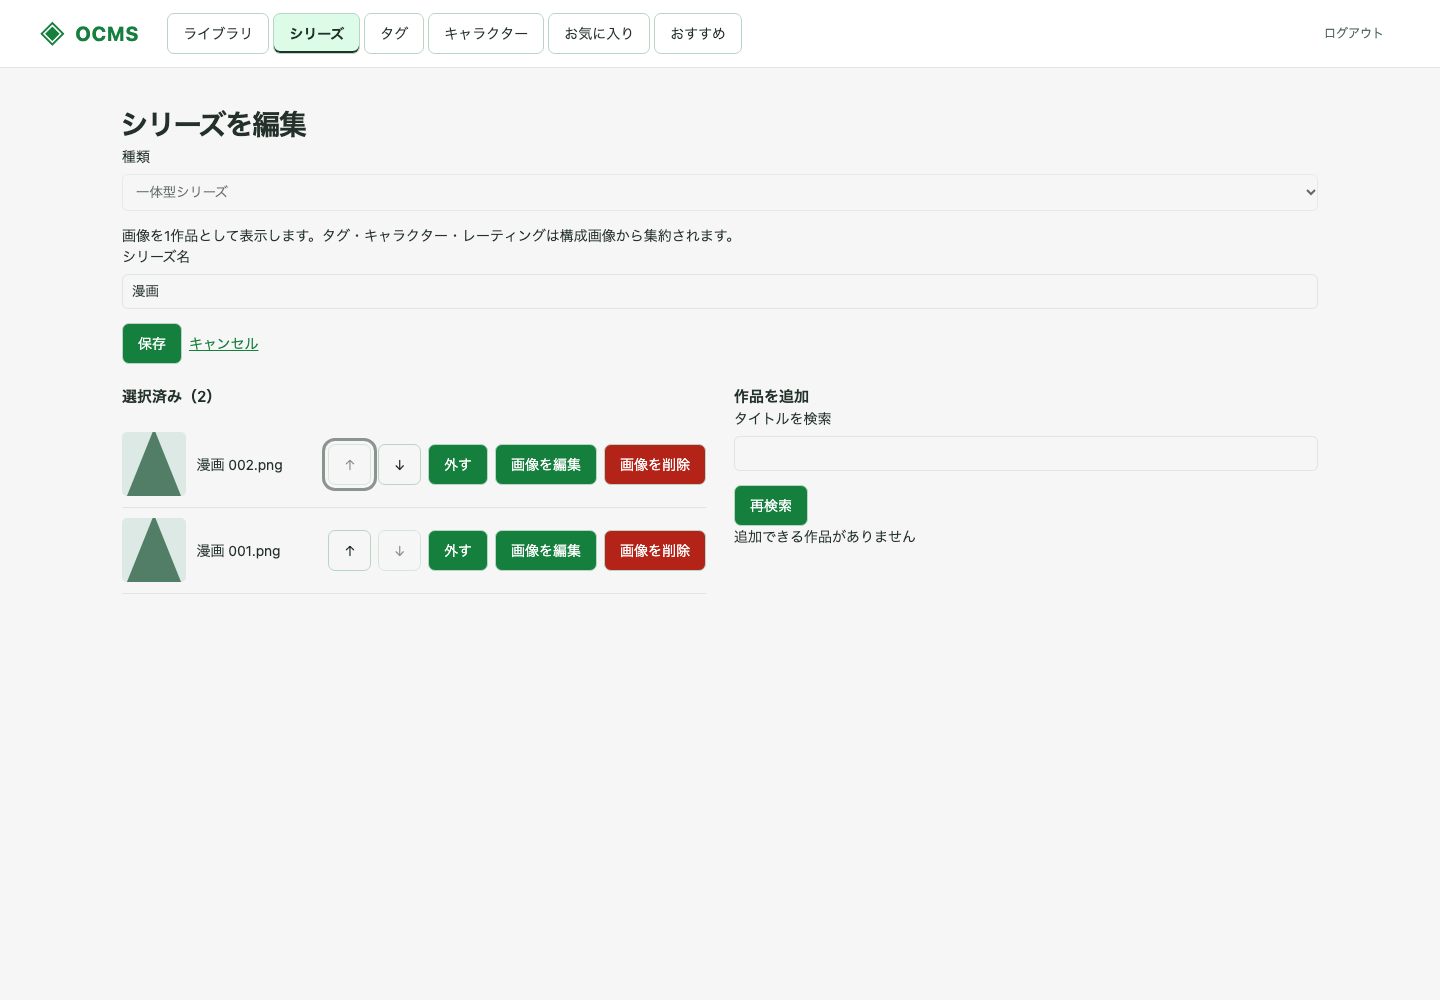
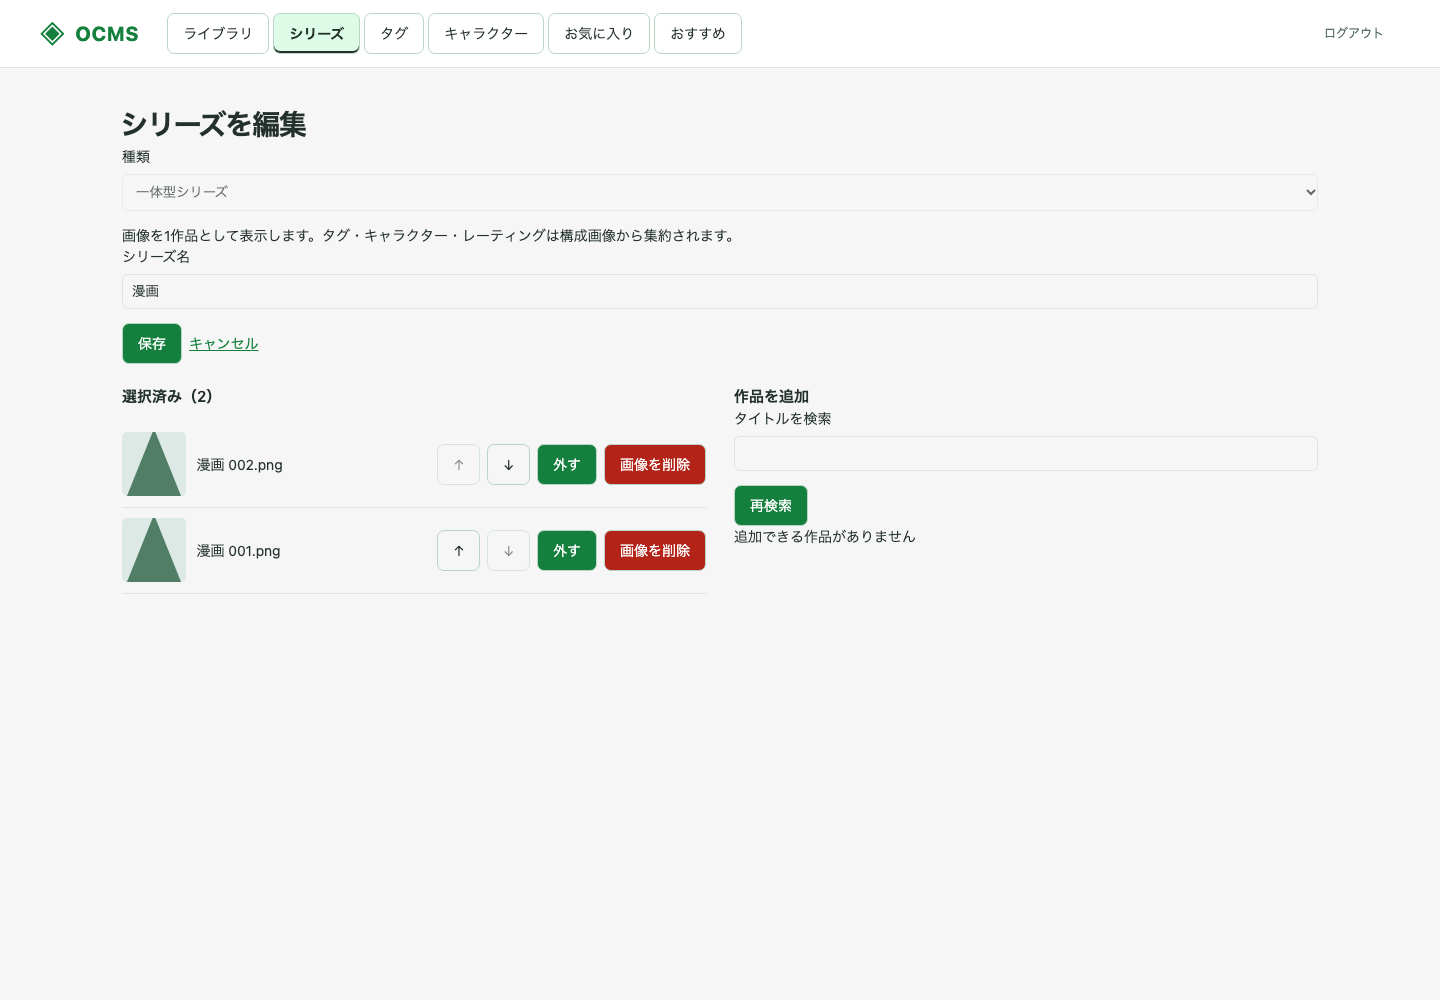
fix: remove image editing from series editor

Changed region(s): [[0.2188, 0.434, 0.4062, 0.496], [0.2812, 0.527, 0.4062, 0.589]]

diff --git a/web/src/components/series/SeriesPage.tsx b/web/src/components/series/SeriesPage.tsx
@@ -1,7 +1,6 @@
 import { useEffect, useState } from 'react';
 import { Link, useLocation, useNavigate } from 'react-router';
-import type { Asset, AssetChanges } from '../../lib/assets';
-import { AssetMetadataEditor } from '../library/AssetMetadataEditor';
+import type { Asset } from '../../lib/assets';
 import { AssetViewer } from '../library/AssetViewer';
 import { FavoriteButton } from '../library/FavoriteButton';
 import { Thumbnail } from '../library/Thumbnail';
@@ -56,7 +55,6 @@ export function SeriesPage({ request }: { request: Request }) {
   const [candidateError, setCandidateError] = useState('');
   const [retry, setRetry] = useState(0);
   const [candidateSearch, setCandidateSearch] = useState(0);
-  const [metadata, setMetadata] = useState<Asset | null>(null);
   const [index, setIndex] = useState(0);
   const [total, setTotal] = useState(0);
   const page = Math.max(1, Number(params.get('page')) || 1);
@@ -241,19 +239,6 @@ export function SeriesPage({ request }: { request: Request }) {
     }
   }
 
-  async function saveMetadata(changes: AssetChanges) {
-    if (!metadata) throw new Error('画像を選択してください');
-    const value = (await request(`/api/v1/assets/${metadata.asset_id}`, {
-      method: 'PATCH',
-      body: JSON.stringify(changes),
-    })) as Asset;
-    setMetadata(value);
-    setMembers((current) =>
-      current.map((a) => (a.asset_id === value.asset_id ? value : a)),
-    );
-    return value;
-  }
-
   async function deleteMember(asset: Asset) {
     if (!confirm('この画像を削除しますか？')) return;
     setBusy(true);
@@ -396,21 +381,13 @@ export function SeriesPage({ request }: { request: Request }) {
                           外す
                         </Button>
                         {!creating && kind === 'composite' && (
-                          <>
-                            <Button
-                              type="button"
-                              onClick={() => setMetadata(asset)}
-                            >
-                              画像を編集
-                            </Button>
-                            <Button
-                              type="button"
-                              variant="destructive"
-                              onClick={() => void deleteMember(asset)}
-                            >
-                              画像を削除
-                            </Button>
-                          </>
+                          <Button
+                            type="button"
+                            variant="destructive"
+                            onClick={() => void deleteMember(asset)}
+                          >
+                            画像を削除
+                          </Button>
                         )}
                       </div>
                     </li>
@@ -474,23 +451,6 @@ export function SeriesPage({ request }: { request: Request }) {
             </div>
           </fieldset>
         </form>
-        {metadata && (
-          <section>
-            <h2>{metadata.filename}</h2>
-            <AssetMetadataEditor
-              key={metadata.asset_id}
-              asset={metadata}
-              onSave={saveMetadata}
-              onSearchTag={(tag) =>
-                navigate(`/library?tag=${encodeURIComponent(tag)}`)
-              }
-              onSearchCharacter={(character) =>
-                navigate(`/library?character=${encodeURIComponent(character)}`)
-              }
-            />
-            <Button onClick={() => setMetadata(null)}>編集を閉じる</Button>
-          </section>
-        )}
       </section>
     );
   if (series)
